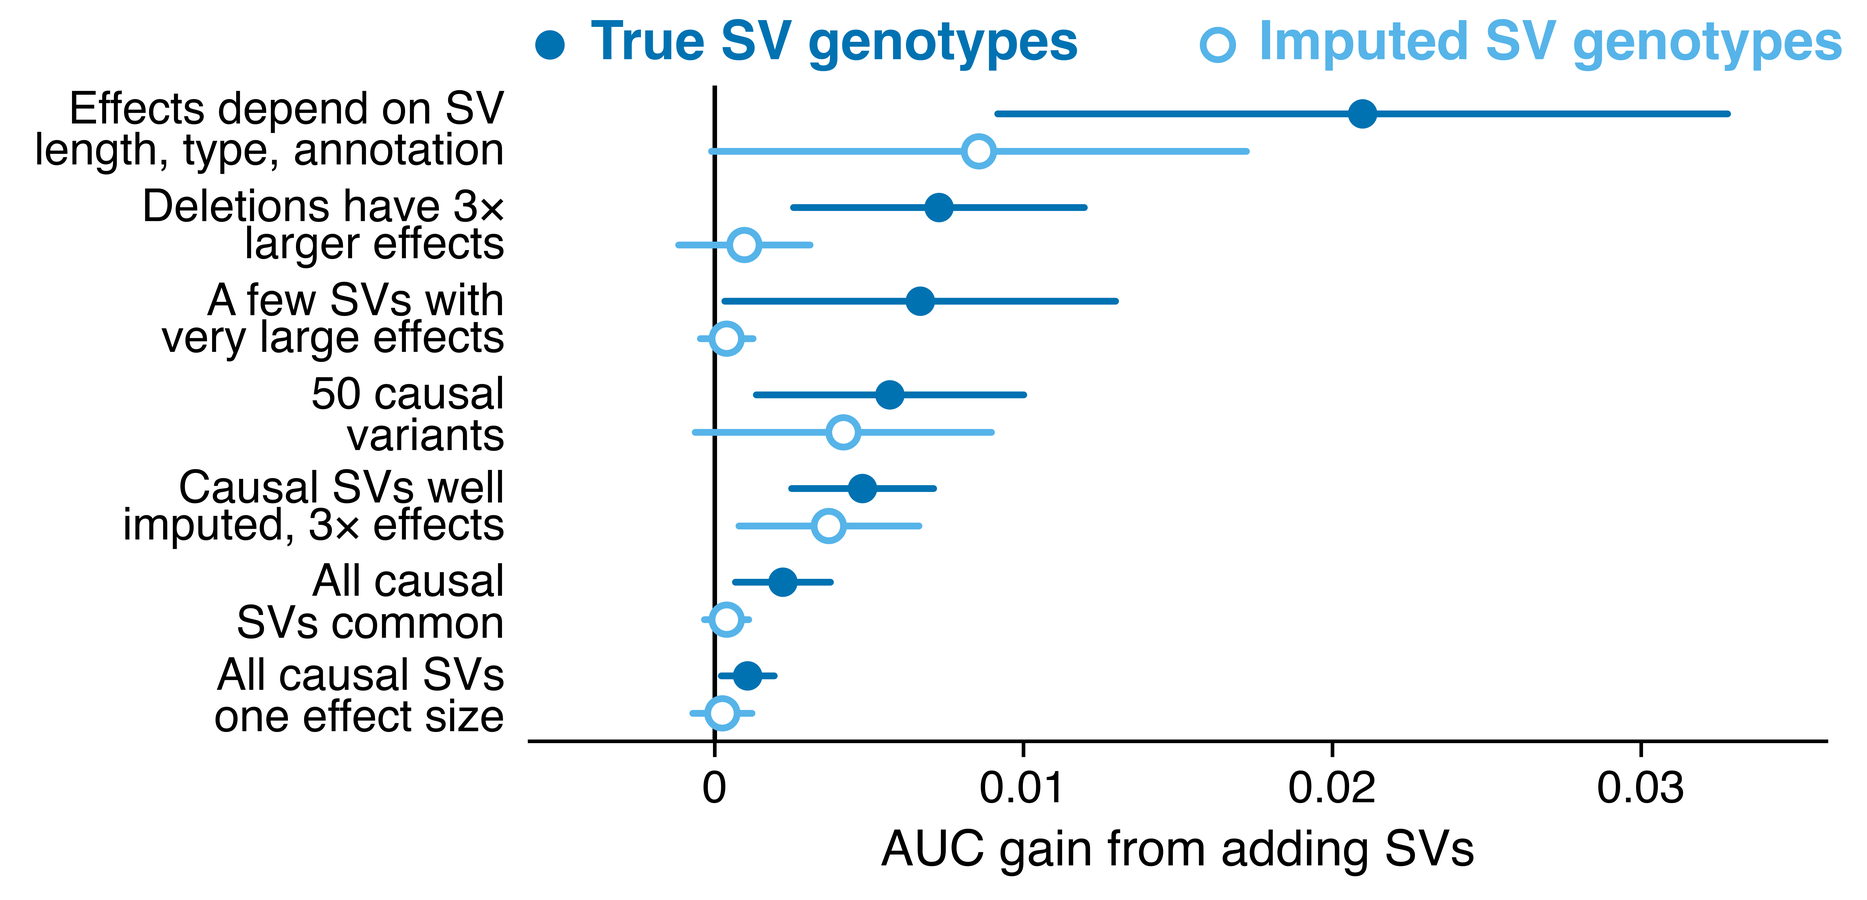
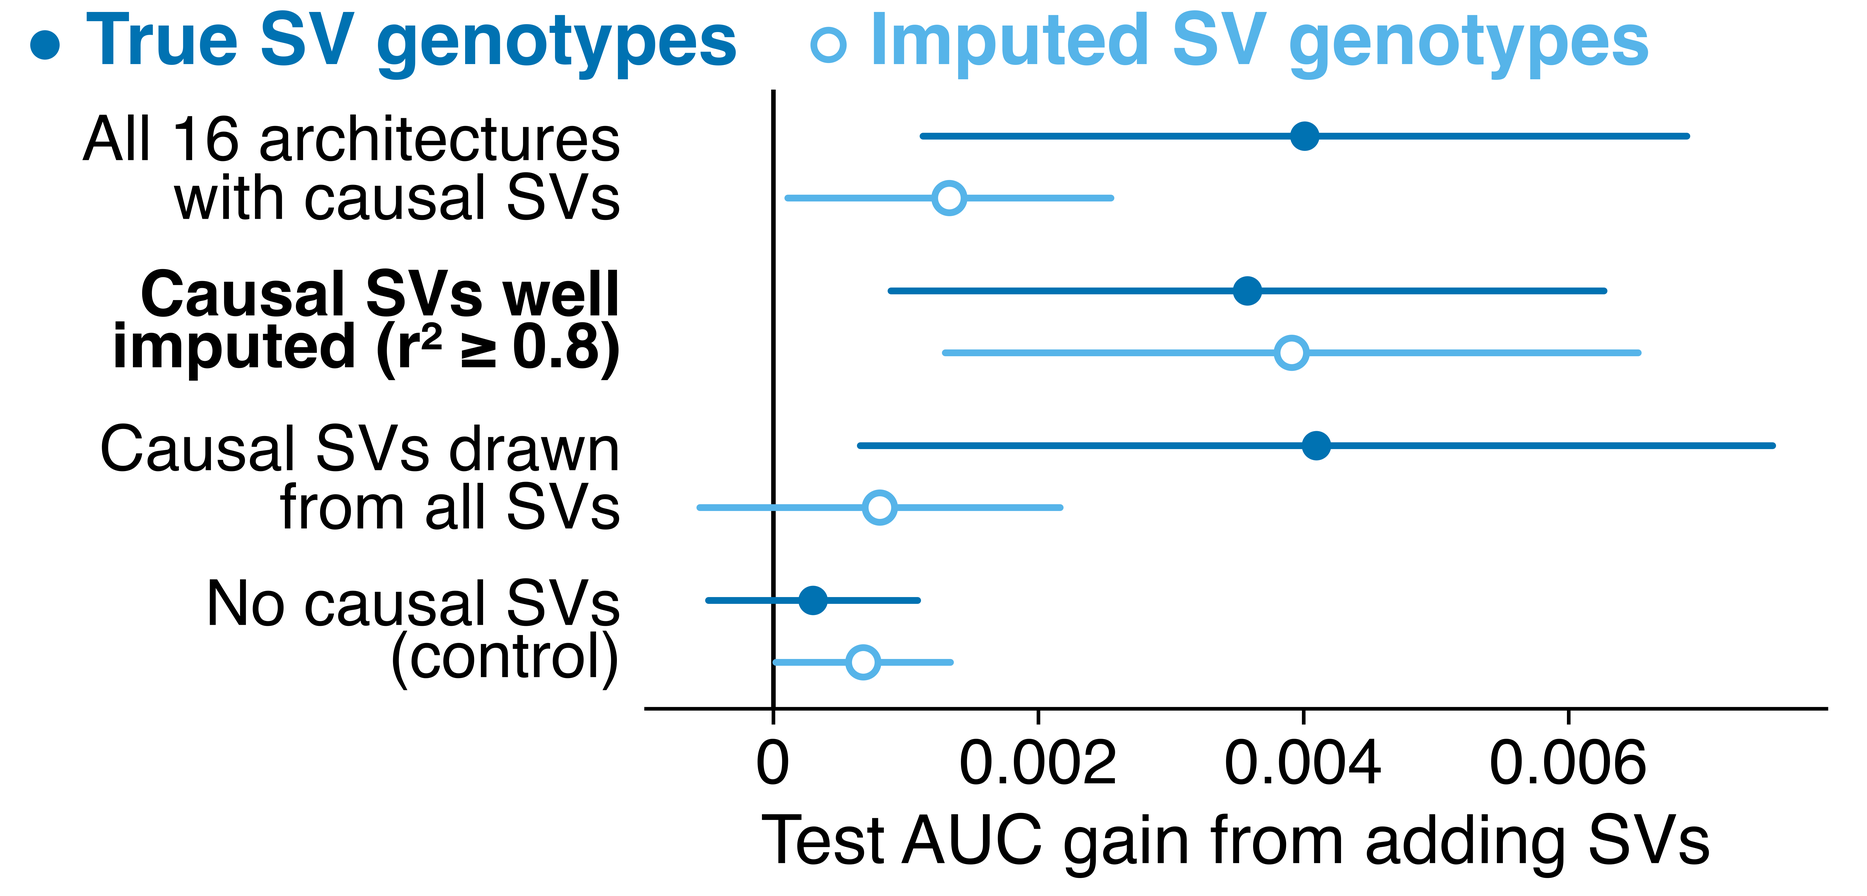
The poster's SV-gain figure is tested over simulated truths, and its rows are sets of architectures fixed by the design (benchmarks/power/truths.py, docs/poster/ashg2026/sim_gallery.py, build_pptx.py). A grid replicate is one truth: one draw of causal variants, effects and phenotypes, shared by ever

diff --git a/docs/poster/ashg2026/sim_gallery.py b/docs/poster/ashg2026/sim_gallery.py
@@ -37,6 +37,9 @@ from matplotlib.lines import Line2D
 from matplotlib.transforms import ScaledTranslation, blended_transform_factory
 from scipy import stats
 
+sys.path.insert(0, str(Path(__file__).resolve().parents[3]))
+from benchmarks.power.truths import fieller, mean_test, truth_gains  # noqa: E402
+
 HERE = Path(__file__).resolve().parent
 LOCAL = Path.home() / "svpgs-bench" / "poster-grid2"
 SUMMARY = HERE / "simulation_summary.json"
@@ -897,69 +900,95 @@ def poster_wins_figure(grids):
     return fig
 
 
-POSTER_ROWS = {
-    "multi_feature_positive": "Effects depend on SV\nlength, type, annotation",
-    "deletion_positive": "Deletions have 3×\nlarger effects",
-    "sv_heavy_tail": "A few SVs with\nvery large effects",
-    "sparse_sv": "50 causal\nvariants",
-    "tagged_sv_fold3": "Causal SVs well\nimputed, 3× effects",
-    "common_sv": "All causal\nSVs common",
-    "sv_two_point": "All causal SVs\none effect size",
-}
-"""The poster's row labels for the architectures where adding true SV genotypes clearly raised AUC, in plain words."""
+WELL_IMPUTED = ("tagged_sv", "tagged_sv_fold3")
+"""The architectures whose causal SVs are drawn only from SVs that Beagle imputed with realized r² ≥ 0.8 (grid.py's
+sv_min_realized_r2)."""
 POSTER_GAIN, POSTER_GENOTYPES = 22.92, 11.4
 """Inches: the widths of the SV gain forest (the poster's middle column, build_pptx.py's MIDDLE) and the imputation
 figure (the left column, LEFT), each placed at its column's full width."""
 
 
+def gain_sets(grids) -> dict[str, dict]:
+    """The SV gain with true and with imputed SV genotypes over simulated truths (benchmarks/power/truths.py), for every
+    architecture with causal SVs, those whose causal SVs are well imputed, the rest, and the control with no causal
+    SVs: each set's label, architecture count, mean gain per source with its t interval and sign-flip p, and the
+    imputed gain's share of the true gain with Fieller's interval."""
+    gains = truth_gains(grids["window-truth"], grids["window"])
+    causal = [point for point in LABELS if point != "null" and point in gains]
+    sets = {}
+    for key, label, points in (
+        ("all", f"All {len(causal)} architectures\nwith causal SVs", causal),
+        ("well_imputed", "Causal SVs well\nimputed (r² ≥ 0.8)", [point for point in causal if point in WELL_IMPUTED]),
+        ("any_sv", "Causal SVs drawn\nfrom all SVs", [point for point in causal if point not in WELL_IMPUTED]),
+        ("null", "No causal SVs\n(control)", ["null"]),
+    ):
+        true = [gain for point in points for _, gain, _ in gains.get(point, [])]
+        imputed = [gain for point in points for _, _, gain in gains.get(point, [])]
+        sets[key] = {"label": label, "architectures": len(points), "true": mean_test(true),
+                     "imputed": mean_test(imputed), "share": fieller(imputed, true)}
+    return sets
+
+
 def poster_sv_gain_figure(grids):
-    """The AUC gain from adding SVs with true and with imputed SV genotypes, for the architectures whose true-genotype
-    gain has a 95% interval above zero, largest first: a row per architecture, its label at the left, the true gain's
-    mean and interval over the imputed gain's."""
-    imputed, true = defaultdict(list), defaultdict(list)
-    for row in grids["window"]:
-        imputed[row["point"]].extend(finite([row], "delta_auc"))
-    for row in grids["window-truth"]:
-        true[row["point"]].extend(finite([row], "delta_auc"))
-    shown = [point for point in LABELS if len(true[point]) >= 3 and len(imputed[point]) >= 3]
-    clear = sorted((point for point in shown if interval(true[point])[1] > 0), key=lambda point: -interval(true[point])[0])
+    """The AUC gain from adding SVs with true and with imputed SV genotypes over simulated truths (``gain_sets``), a row
+    per set with its label at the left and the true gain's mean and 95% interval over the imputed gain's; the label of
+    the set with well-imputed causal SVs in bold. Returns the figure and its one-sentence description."""
+    sets = gain_sets(grids)
+
+    def entry(test):
+        return [test["mean"], test["lower"], test["upper"], test["truths"]]
+
     NUMBERS["poster_sv_gain"] = {
-        "clear": len(clear), "shown": len(shown),
-        "true_sum": sum(interval(true[point])[0] for point in clear),
-        "imputed_sum": sum(interval(imputed[point])[0] for point in clear),
-        "rows": {point: {"true": list(interval(true[point])), "imputed": list(interval(imputed[point]))} for point in clear},
+        "shown": len({row["point"] for row in grids["window-truth"]} & {row["point"] for row in grids["window"]}),
+        "rows": {key: {"architectures": row["architectures"], "true": entry(row["true"]), "p_true": row["true"]["p"],
+                       "imputed": entry(row["imputed"]), "p_imputed": row["imputed"]["p"],
+                       "share": [None if math.isinf(value) else value for value in row["share"]]}
+                 for key, row in sets.items()},
     }
-    pitch, top, bottom, right = 1.15, 1.05, 1.95, 0.5
-    height = top + bottom + pitch * len(clear)
+    rows = list(sets.values())
+    pitch, top, bottom, right = 1.9, 1.1, 2.3, 0.5
+    height = top + bottom + pitch * len(rows)
     fig = plt.figure(figsize=(POSTER_GAIN, height))
-    left = widest(fig, [POSTER_ROWS[point] for point in clear], fontsize=POSTER_TYPE, linespacing=1.0) + 0.75
+    left = widest(fig, [row["label"] for row in rows], fontsize=POSTER_TYPE, fontweight="bold", linespacing=1.0) + 0.75
     ax = frame(fig, left, bottom, POSTER_GAIN - left - right, height - top - bottom)
-    limits = (-0.006, 0.036)
-    for y, point in enumerate(clear):
-        for offset, values, (_, color, filled) in ((-0.2, true[point], SOURCES[0]), (0.2, imputed[point], SOURCES[1])):
-            mean, low, high, _ = interval(values)
-            ax.hlines(y + offset, max(low, limits[0]), min(high, limits[1]), color=color, linewidth=POSTER_BAR,
-                      zorder=3, capstyle="round")
-            ax.plot([mean], [y + offset], "o", markersize=POSTER_MARK, color=color,
+    ends = [row[source][end] for row in rows for source in ("true", "imputed") for end in ("lower", "upper")
+            if math.isfinite(row[source][end])]
+    low, high = min(0.0, *ends), max(ends)
+    limits = (low - 0.05 * (high - low), high + 0.05 * (high - low))
+    for y, row in enumerate(rows):
+        for offset, source, (_, color, filled) in ((-0.2, "true", SOURCES[0]), (0.2, "imputed", SOURCES[1])):
+            test = row[source]
+            if math.isfinite(test["lower"]):
+                ax.hlines(y + offset, test["lower"], test["upper"], color=color, linewidth=POSTER_BAR, zorder=3,
+                          capstyle="round")
+            ax.plot([test["mean"]], [y + offset], "o", markersize=POSTER_MARK, color=color,
                     markerfacecolor=color if filled else "white", markeredgecolor=color,
                     markeredgewidth=0 if filled else 6.0, zorder=4)
-        ax.text(0, y, POSTER_ROWS[point], transform=shifted(ax, -0.3), ha="right", va="center", linespacing=1.0)
+        ax.text(0, y, row["label"], transform=shifted(ax, -0.3), ha="right", va="center", linespacing=1.0,
+                fontweight="bold" if row is sets["well_imputed"] else "normal")
     ax.axvline(0, color=INK, linewidth=4.0, zorder=2)
     ax.set_yticks([])
     ax.spines["left"].set_visible(False)
-    ax.set_ylim(len(clear) - 0.5, -0.5)
+    ax.set_ylim(len(rows) - 0.5, -0.5)
     ax.set_xlim(*limits)
-    ticks = np.arange(0, limits[1], 0.01)
-    ax.set_xticks(ticks, [plain(tick) for tick in ticks])
-    ax.set_xlabel("AUC gain from adding SVs")
+    step = 0.002
+    ticks = np.arange(math.ceil(limits[0] / step) * step, limits[1], step)
+    ax.set_xticks(ticks, [plain(tick, 3) for tick in ticks])
+    ax.set_xlabel("Test AUC gain from adding SVs")
     # the two genotype sources named once over the whole figure, labels and plot, each after a mark like its own
-    for across, (label, color, filled) in ((left, SOURCES[0]), (left + 8.2, SOURCES[1])):
+    first = widest(fig, [SOURCES[0][0]], fontsize=POSTER_NAME, fontweight="bold")
+    for across, (label, color, filled) in ((0.3, SOURCES[0]), (0.3 + first + 1.6, SOURCES[1])):
         fig.add_artist(Line2D([(across + 0.25) / POSTER_GAIN], [1 - 0.55 / height], marker="o", markersize=POSTER_MARK,
                               color=color, markerfacecolor=color if filled else "white",
                               markeredgecolor=color, markeredgewidth=0 if filled else 6.0))
         fig.text((across + 0.75) / POSTER_GAIN, 1 - 0.55 / height, label, color=color, fontsize=POSTER_NAME,
                  fontweight="bold", va="center", ha="left")
-    return fig
+    description = (
+        "Test AUC gain from adding SVs to SV-PGS with true (filled) and Beagle-imputed (open) SV genotypes, mean and 95% "
+        "interval over simulated truths, for every architecture with causal SVs, those whose causal SVs are well "
+        "imputed, the rest, and the control with no causal SVs."
+    )
+    return fig, description
 
 
 def poster_imputation_figure(summary):
@@ -1239,15 +1268,16 @@ def main() -> None:
             gallery_page(gallery, OUT / f"{name}.png", caption)
     # the poster's own versions, not gallery figures, in the poster's type and with no legends or gallery pages
     with plt.rc_context(POSTER_STYLE):
+        gain, gain_description = poster_sv_gain_figure(grids)
         for name, panel in (("poster_accuracy_by_training_size", poster_accuracy_figure(grids, summary)),
                             ("poster_wins", poster_wins_figure(grids)),
-                            ("poster_sv_gain", poster_sv_gain_figure(grids)),
+                            ("poster_sv_gain", gain),
                             ("poster_imputation_accuracy", poster_imputation_figure(summary)),
                             ("poster_model", poster_model_figure()), ("poster_variants", poster_variants_figure(summary))):
             # transparent, so the page shows through: an opaque white ground renders a shade off the page white in a PDF
             panel.savefig(OUT / f"{name}.png", transparent=True)
             plt.close(panel)
-    for name, words in SCHEMATICS.items():
+    for name, words in (*SCHEMATICS.items(), ("poster_sv_gain", gain_description)):
         (OUT / f"{name}.txt").write_text(words + "\n")
     text = json.dumps(rounded(NUMBERS), indent=1, ensure_ascii=False)
     # each [mean, lower, upper, n] on one line

diff --git a/benchmarks/power/truths.py b/benchmarks/power/truths.py
@@ -1,0 +1,102 @@
+"""The simulation grid's SV gain tested over simulated truths, the grid's unit of replication.
+
+A grid replicate is one simulated truth: one draw of causal variants, effects and phenotypes
+(``grid.scenario_parameters``), shared by every training size and by both genotype sources, and scored on the same
+held-out people. A task's gain from adding SVs is ``grid.compare``'s: the with_sv arm's test AUC less the separately
+fitted snv_indel arm's, on the same people, with its paired DeLong z. The gain varies far more between truths than the
+DeLong standard error within one. In most truths it is near 0, and in the few whose causal SVs have large effects it is
+0.01 to 0.06. So inference runs over truths:
+
+- a truth's gain is its mean over the training sizes both genotype sources completed;
+- a mean gain over truths has a Student-t 95% interval on k - 1 degrees of freedom and a one-sided sign-flip p, which
+  is exact when, under the null, each truth's gain is symmetric about 0;
+- the gain with imputed SV genotypes as a share of the gain with true ones is the ratio of their means over the same
+  truths, with Fieller's 95% interval from the paired covariance.
+
+Counting each training size of a truth as its own replicate makes intervals too narrow, since the sizes share the
+truth's causal SVs and test phenotypes. Weighting truths by their DeLong variance pulls the mean toward 0, since the
+DeLong standard error is near 0 wherever the with_sv fit barely uses its SVs.
+"""
+from __future__ import annotations
+
+import itertools
+import math
+from collections import defaultdict
+from collections.abc import Iterable
+
+import numpy as np
+from scipy import stats
+
+EXACT_LIMIT = 16
+"""Up to this many truths the sign-flip p enumerates every sign pattern; above it, it draws FLIP_DRAWS of them."""
+FLIP_DRAWS = 1 << 17
+
+
+def truth_gains(true_rows: Iterable[dict], imputed_rows: Iterable[dict]) -> dict[str, list[tuple[int, float, float]]]:
+    """Each point's truths as (replicate, gain with true SV genotypes, gain with imputed ones): the mean ``delta_auc``
+    over the training sizes where both sources have a finite gain. A truth with no such size is left out."""
+    gains: dict[str, dict] = {"true": defaultdict(dict), "imputed": defaultdict(dict)}
+    for source, rows in (("true", true_rows), ("imputed", imputed_rows)):
+        for row in rows:
+            value = row.get("delta_auc")
+            if value is not None and math.isfinite(value):
+                gains[source][(row["point"], row["replicate"])][row["train_count"]] = value
+    truths: dict[str, list[tuple[int, float, float]]] = defaultdict(list)
+    for (point, replicate), true in sorted(gains["true"].items()):
+        imputed = gains["imputed"].get((point, replicate), {})
+        sizes = sorted(set(true) & set(imputed))
+        if sizes:
+            truths[point].append((replicate, float(np.mean([true[size] for size in sizes])),
+                                  float(np.mean([imputed[size] for size in sizes]))))
+    return dict(truths)
+
+
+def sign_flip_p(values, seed: int = 0) -> float:
+    """One-sided p for a positive mean: the share of sign patterns whose mean is at least the observed mean, over every
+    pattern for up to EXACT_LIMIT values and otherwise over FLIP_DRAWS random ones, as (hits + 1) / (draws + 1)."""
+    values = np.asarray(values, dtype=np.float64)
+    if values.size == 0:
+        return math.nan
+    observed = values.mean() - 1e-12 * np.abs(values).max()
+    if values.size <= EXACT_LIMIT:
+        signs = np.array(list(itertools.product((1.0, -1.0), repeat=values.size)))
+        return float(np.mean((signs * values).mean(axis=1) >= observed))
+    generator, hits = np.random.default_rng(seed), 0
+    for _ in range(FLIP_DRAWS // 4096):
+        signs = generator.choice((1.0, -1.0), size=(4096, values.size))
+        hits += int(np.sum((signs * values).mean(axis=1) >= observed))
+    return float((hits + 1) / (FLIP_DRAWS + 1))
+
+
+def mean_test(values) -> dict[str, float | int]:
+    """The mean of independent truths' gains, its Student-t 95% interval and its one-sided sign-flip p (no interval
+    below two truths)."""
+    values = np.asarray([value for value in values if math.isfinite(value)], dtype=np.float64)
+    k = values.size
+    mean = float(values.mean()) if k else math.nan
+    if k < 2:
+        return {"mean": mean, "lower": math.nan, "upper": math.nan, "truths": k, "p": math.nan}
+    half = float(stats.t.ppf(0.975, k - 1) * values.std(ddof=1) / math.sqrt(k))
+    return {"mean": mean, "lower": mean - half, "upper": mean + half, "truths": k, "p": sign_flip_p(values)}
+
+
+def fieller(numerator, denominator, level: float = 0.95) -> tuple[float, float, float]:
+    """The ratio of two means over the same truths and Fieller's interval for it, from the paired covariance of the
+    truths' values on k - 1 degrees of freedom. The interval is (-inf, inf) unless the denominator's mean is clear of
+    0 at ``level``."""
+    numerator, denominator = np.asarray(numerator, dtype=np.float64), np.asarray(denominator, dtype=np.float64)
+    k = numerator.size
+    top, bottom = float(numerator.mean()), float(denominator.mean())
+    ratio = top / bottom if bottom else math.nan
+    if k < 3:
+        return ratio, -math.inf, math.inf
+    covariance = np.cov(np.vstack([numerator, denominator])) / k
+    t = float(stats.t.ppf(0.5 + level / 2, k - 1))
+    a = bottom ** 2 - t ** 2 * covariance[1, 1]
+    b = top * bottom - t ** 2 * covariance[0, 1]
+    c = top ** 2 - t ** 2 * covariance[0, 0]
+    discriminant = b ** 2 - a * c
+    if a <= 0 or discriminant < 0:
+        return ratio, -math.inf, math.inf
+    root = math.sqrt(discriminant)
+    return ratio, (b - root) / a, (b + root) / a

diff --git a/tests/test_power_truths.py b/tests/test_power_truths.py
@@ -1,0 +1,85 @@
+"""The simulation grid's SV gain tested over simulated truths (benchmarks/power/truths.py)."""
+from __future__ import annotations
+
+import math
+
+import numpy as np
+import pytest
+from scipy import stats
+
+from benchmarks.power import truths
+
+SIZES = (5_000, 10_000, 20_000)
+
+
+def _rows(effects: np.ndarray, share: float, generator: np.random.Generator, noise: float = 0.001) -> tuple[list, list]:
+    """One point's tasks: each truth's effect at every size and genotype source, plus each task's own test noise."""
+    rows = {"true": [], "imputed": []}
+    for replicate, effect in enumerate(effects):
+        for size in SIZES:
+            for source, scale in (("true", 1.0), ("imputed", share)):
+                rows[source].append({"point": "p", "replicate": replicate, "train_count": size,
+                                     "delta_auc": scale * effect + noise * generator.standard_normal()})
+    return rows["true"], rows["imputed"]
+
+
+def test_a_truth_is_its_mean_over_the_sizes_both_sources_completed():
+    true = [{"point": "p", "replicate": 0, "train_count": 5_000, "delta_auc": 0.01},
+            {"point": "p", "replicate": 0, "train_count": 10_000, "delta_auc": 0.03},
+            {"point": "p", "replicate": 0, "train_count": 20_000, "delta_auc": 0.5},
+            {"point": "p", "replicate": 1, "train_count": 5_000, "delta_auc": 0.02}]
+    imputed = [{"point": "p", "replicate": 0, "train_count": 5_000, "delta_auc": 0.0},
+               {"point": "p", "replicate": 0, "train_count": 10_000, "delta_auc": 0.02},
+               {"point": "p", "replicate": 0, "train_count": 20_000, "delta_auc": math.nan},
+               {"point": "p", "replicate": 2, "train_count": 5_000, "delta_auc": 0.02}]
+    assert truths.truth_gains(true, imputed) == {"p": [(0, pytest.approx(0.02), pytest.approx(0.01))]}
+
+
+def test_the_sign_flip_p_counts_every_pattern_at_least_as_large():
+    assert truths.sign_flip_p([1.0, 2.0, 3.0]) == pytest.approx(1 / 8)
+    assert truths.sign_flip_p([1.0, -2.0, 3.0]) == pytest.approx(3 / 8)
+    assert truths.sign_flip_p(np.ones(20)) == pytest.approx(1 / (truths.FLIP_DRAWS + 1))
+
+
+def test_tests_over_truths_hold_their_level_where_sizes_counted_as_replicates_do_not():
+    """Five truths of a heavy-tailed gain symmetric about 0, each at three training sizes: the sign-flip test and the
+    t interval over truths reject no more than their level, and a t interval over the 15 tasks rejects far more."""
+    generator = np.random.default_rng(7)
+    simulations = 3000
+    flip = interval = pooled = 0
+    for _ in range(simulations):
+        true, imputed = _rows(0.01 * generator.standard_t(3, size=5), 0.4, generator)
+        test = truths.mean_test([gain for _, gain, _ in truths.truth_gains(true, imputed)["p"]])
+        flip += test["p"] <= 0.05
+        interval += test["lower"] > 0
+        tasks = np.array([row["delta_auc"] for row in true])
+        pooled += tasks.mean() - stats.t.ppf(0.975, tasks.size - 1) * tasks.std(ddof=1) / math.sqrt(tasks.size) > 0
+    allowance = 3 * math.sqrt(0.05 * 0.95 / simulations)
+    assert flip / simulations <= 0.05 + allowance
+    assert interval / simulations <= 0.025 + allowance
+    assert pooled / simulations > 0.1
+
+
+def test_a_planted_gain_is_found():
+    generator = np.random.default_rng(3)
+    true, imputed = _rows(0.01 + 0.002 * generator.standard_normal(20), 0.4, generator)
+    test = truths.mean_test([gain for _, gain, _ in truths.truth_gains(true, imputed)["p"]])
+    assert test["truths"] == 20 and test["lower"] > 0 and test["p"] < 0.001
+
+
+def test_fieller_covers_a_planted_share():
+    generator = np.random.default_rng(11)
+    simulations, covered = 2000, 0
+    for _ in range(simulations):
+        true = generator.exponential(0.004, 40) + 0.002 * generator.standard_normal(40)
+        imputed = 0.4 * true + 0.002 * generator.standard_normal(40)
+        _, lower, upper = truths.fieller(imputed, true)
+        covered += lower <= 0.4 <= upper
+    assert abs(covered / simulations - 0.95) <= 3 * math.sqrt(0.05 * 0.95 / simulations)
+
+
+def test_fieller_is_unbounded_when_the_denominator_mean_is_not_clear_of_zero():
+    generator = np.random.default_rng(5)
+    denominator = generator.standard_normal(10)
+    ratio, lower, upper = truths.fieller(denominator + 1.0, denominator - denominator.mean())
+    assert (lower, upper) == (-math.inf, math.inf)

diff --git a/docs/poster/ashg2026/build_pptx.py b/docs/poster/ashg2026/build_pptx.py
@@ -127,9 +127,8 @@ def copy(numbers: dict) -> dict:
     # the smallest training set on which SV-PGS clears LDpred2-auto trained on the largest
     sooner = next((size for size, cell in zip(sizes, ours) if cell[1] > theirs[-1][2]), None)
     beaten = "all" if wins["wins"] == wins["replicates"] else f"{wins['wins']} of"
-    share = gain["imputed_sum"] / gain["true_sum"]
-    imputed_well = gain["rows"]["tagged_sv_fold3"]
-    kept_well = imputed_well["imputed"][0] / imputed_well["true"][0]
+    every = gain["rows"]["all"]  # true and imputed: [mean, lower, upper, truths]; share: [ratio, lower, upper]
+    share, share_lower, share_upper = every["share"]
     return {
         "introduction": ["We test whether structural variants (SVs) improve polygenic scores"],
         "methods": ["Empirical Bayes priors depend on imputation r², frequency and SV length"],
@@ -141,10 +140,11 @@ def copy(numbers: dict) -> dict:
         ],
         "accuracy": f"SV-PGS at {people(sooner)} beat LDpred2-auto at {people(sizes[-1])}" if sooner else "",
         "versus": f"SV-PGS had higher AUC in {beaten} {wins['replicates']} simulations",
-        "gain_title": f"Imputed SV genotypes gave {share:.0%} of the AUC gain of true SV genotypes",
-        "gain": [f"The {gain['clear']} of {gain['shown']} architectures where true SV genotypes raised AUC (95% CI above "
-                 "0), in one 3 Mb window of chr22",
-                 f"Where causal SVs impute well, the gain with imputed genotypes was **{kept_well:.0%}** as large"],
+        "gain_title": "Imputed SVs matched true SVs when well imputed",
+        "gain": [f"Mean and 95% CI across {every['true'][3]} simulated truths, each a new draw of causal variants, "
+                 "in 3 Mb of chr22",
+                 f"Across all {every['architectures']} architectures, imputed SVs gave **{share:.0%}** of the gain of "
+                 f"true SVs (95% CI {share_lower:.0%}–{share_upper:.0%})"],
         "aou": [
             "SVs imputed into 50,000 genomes from 12,212 long-read assemblies",
             "SV-PGS fitted for LDL, hypothyroidism, AF and gout",
@@ -618,7 +618,7 @@ def build() -> None:
                 [headline(words["versus"]),
                  figure(gallery["poster_wins"], legend=GALLERY / "fig2_gain_over_ldpred2.txt")]),
             headline(words["gain_title"], gap="section"),
-            figure(gallery["poster_sv_gain"], legend=GALLERY / "fig3_sv_gain_true_vs_imputed.txt"),
+            figure(gallery["poster_sv_gain"]),
             text(bullets(words["gain"])),
         ],
         [
